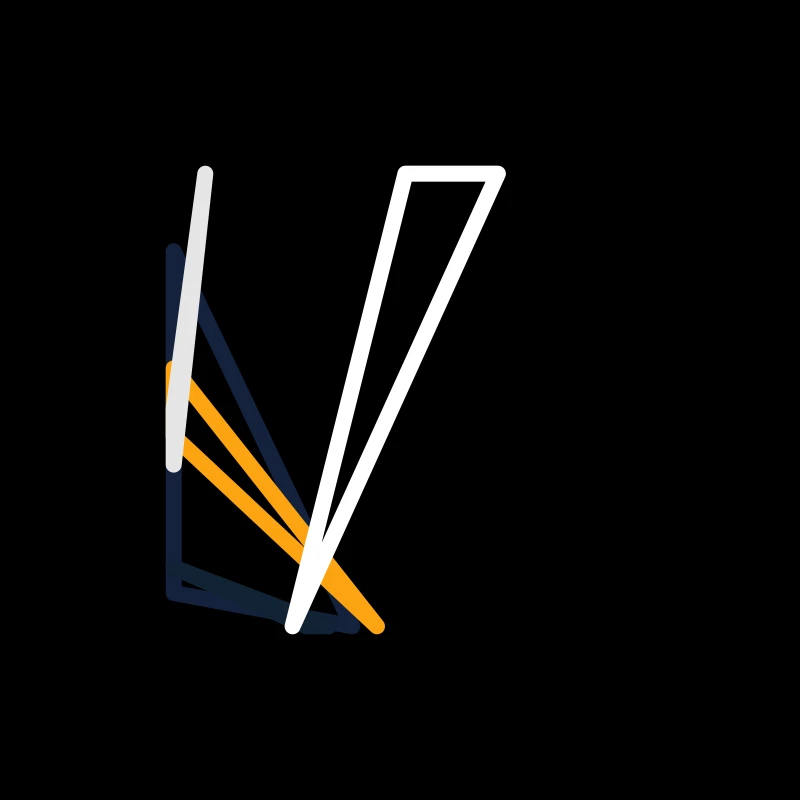
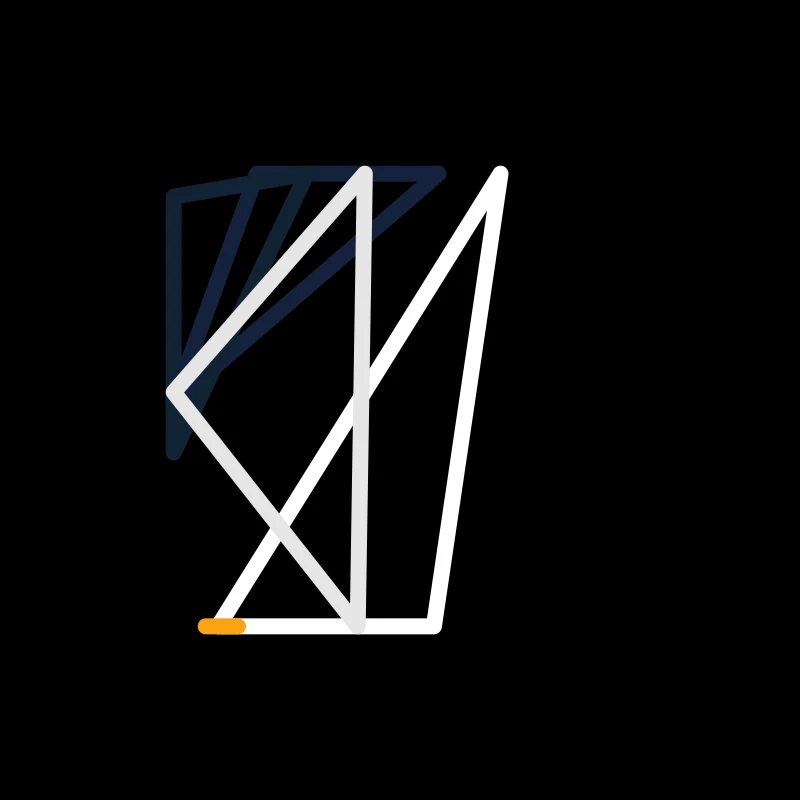
Update gh-pages to output generated at 53c2874

Changed region(s): [[0.1875, 0.1875, 0.6562, 0.8125]]

diff --git a/index.html b/index.html
@@ -14,9 +14,9 @@ img{width: 80vmin; height: 80vmin; margin: 0 auto; display: block;
               0 32px 32px rgba(0,0,0,0.11);
 }
 </style>
-<title>2021-6-27 by G12N</title>
+<title>2021-6-28 by G12N</title>
 </head>
 <body>
-<img src="2021-6-27.jpeg" alt="daily-image" />
+<img src="2021-6-28.jpeg" alt="daily-image" />
 </body>
 </html>
